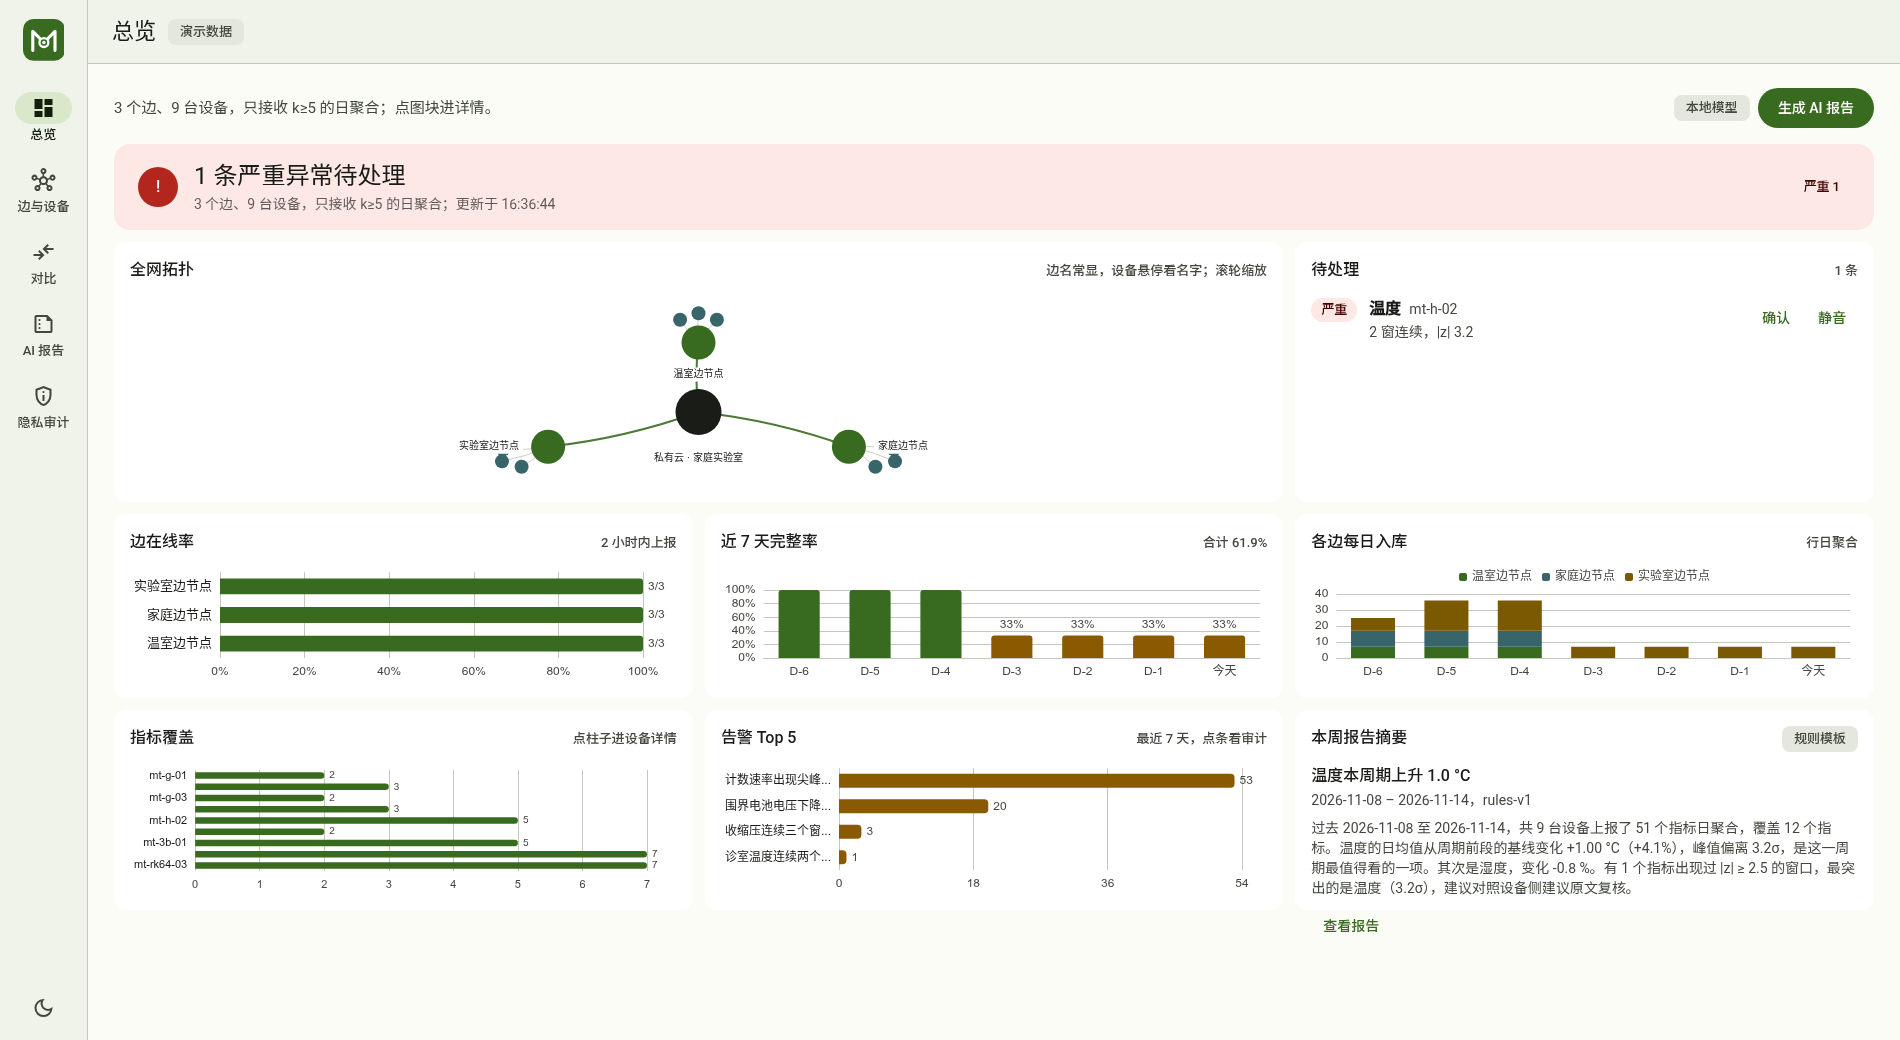
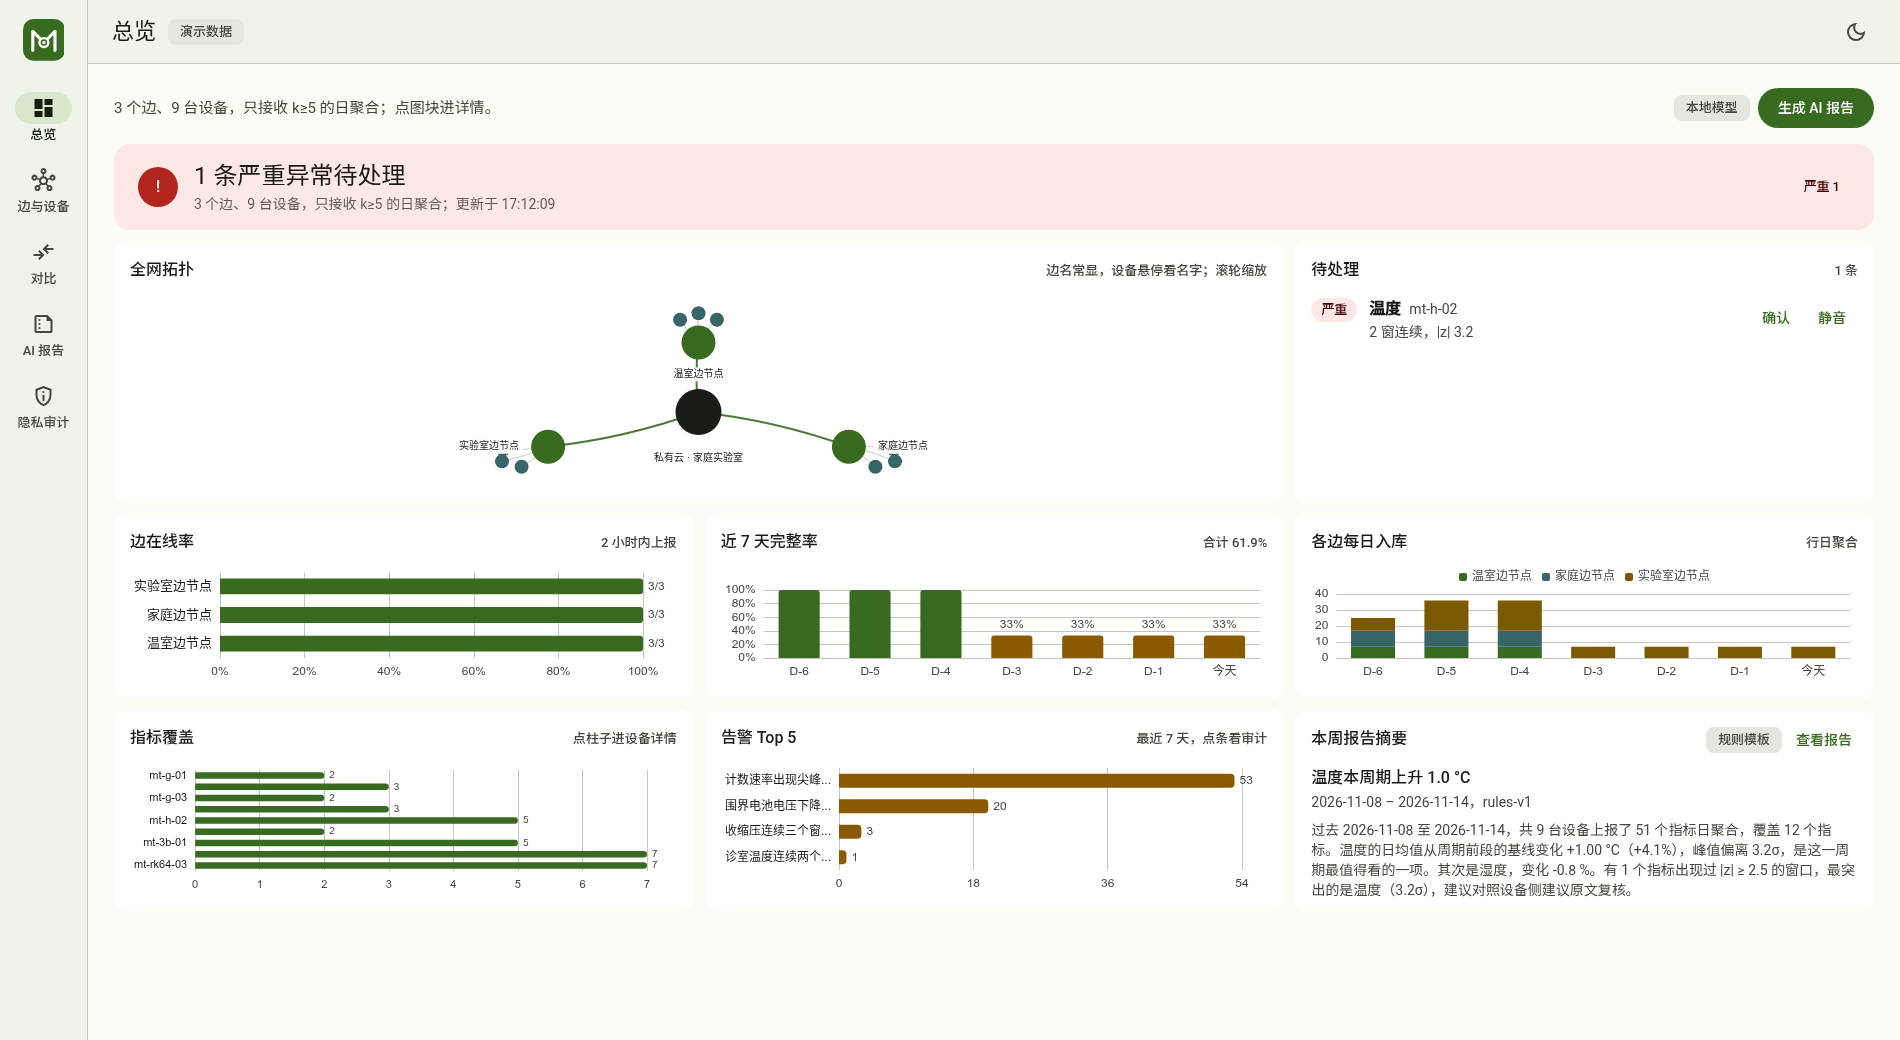
fix(web): 暗色改中性黑底，修 tooltip 尺寸与摘要卡溢出 (#17)
- 暗色面从墨绿 #10130d 换成纯黑 + 中性灰阶：surface #000、卡片 #141414、
  外壳 #0e0e0e、字段 #262626，绿只作为强调色
- 图表 tooltip 被 .chart-fill 的 div{height:100%} 命中，整块拉成全高、
  横跨卡片并盖住相邻卡片。选择器收紧到 ChartBox 根节点，tooltip 自己
  再给 padding/圆角/阴影/confine
- 本周报告摘要正文溢出卡片：查看报告改到卡片标题行，正文 4 行截断
- 设备详情建议列表从卡片内滚动改成自然高度，不再切掉半行
- 主题切换从 rail 底部移到顶栏右侧（.theme-toggle），smoke 断言点了真会换

Changed region(s): [[0.6832, 0.7077, 0.9937, 0.8923], [0.9005, 0.6769, 0.9937, 0.7385]]

diff --git a/web/src/styles/m3.css b/web/src/styles/m3.css
@@ -140,14 +140,32 @@
 
 [data-theme='dark'] {
   color-scheme: dark;
+  /* 中性黑：暗色下不用绿色调的“墨绿底”，面用纯黑到灰阶 */
+  --md-surface: #000000;
+  --md-surface-tint: var(--md-primary);
+  --md-surface-dim: #000000;
+  --md-surface-bright: #2b2b2b;
+  --md-surface-container-lowest: #0a0a0a;
+  --md-surface-container-low: #141414;
+  --md-surface-container: #0e0e0e;
+  --md-surface-container-high: #1e1e1e;
+  --md-surface-container-highest: #262626;
+  --md-surface-variant: #2a2a2a;
+  --md-on-surface: #eaeaea;
+  --md-on-surface-variant: #b8b8b8;
+  --md-outline: #8f8f8f;
+  --md-outline-variant: #3a3a3a;
+  --md-inverse-surface: #eaeaea;
+  --md-inverse-on-surface: #1a1a1a;
+
   --md-primary: #9cd67e;
   --md-on-primary: #0a3900;
   --md-primary-container: #205107;
   --md-on-primary-container: #b7f397;
-  --md-secondary: #bdcbb0;
-  --md-on-secondary: #283421;
-  --md-secondary-container: #3e4b36;
-  --md-on-secondary-container: #d9e7cb;
+  --md-secondary: #c3c8bb;
+  --md-on-secondary: #2a2f27;
+  --md-secondary-container: #343a31;
+  --md-on-secondary-container: #dfe4d7;
   --md-tertiary: #a0cfd4;
   --md-on-tertiary: #00363a;
   --md-tertiary-container: #1f4d51;
@@ -157,31 +175,14 @@
   --md-error-container: #93000a;
   --md-on-error-container: #ffdad6;
 
-  --md-surface: #10130d;
-  --md-on-surface: #e3e4dc;
-  --md-surface-tint: var(--md-primary);
-  --md-surface-dim: #10130d;
-  --md-surface-bright: #373a33;
-  --md-surface-container-lowest: #0b0e08;
-  --md-surface-container-low: #1a1d17;
-  --md-surface-container: #151811;
-  --md-surface-container-high: #23271e;
-  --md-surface-container-highest: #2d3128;
-  --md-surface-variant: #43483e;
-  --md-on-surface-variant: #c3c8bb;
-  --md-outline: #8d9286;
-  --md-outline-variant: #43483e;
-  --md-inverse-surface: #e3e4dc;
-  --md-inverse-on-surface: #2f312c;
-
   --md-ok: #9cd67e;
-  --md-ok-container: #22301a;
+  --md-ok-container: #1d2a16;
   --md-on-ok-container: #c9eeb5;
   --md-notice: #e0b05a;
-  --md-notice-container: #33280f;
+  --md-notice-container: #2c2410;
   --md-on-notice-container: #f6dda9;
   --md-critical: #ffb4ab;
-  --md-critical-container: #3b1b18;
+  --md-critical-container: #351513;
   --md-on-critical-container: #ffdad6;
 
   --md-chart-1: #9cd67e;
@@ -193,7 +194,7 @@
   --md-chart-cool: var(--md-tertiary);
   --md-chart-warm: var(--md-notice);
 
-  --md-elev-1: 0 1px 2px rgba(0, 0, 0, 0.3), 0 1px 3px 1px rgba(0, 0, 0, 0.15);
+  --md-elev-1: 0 1px 2px rgba(0, 0, 0, 0.6), 0 1px 3px 1px rgba(0, 0, 0, 0.4);
 }
 
 /* ---------------------------------------------------------------- 基础 */

diff --git a/web/src/views/Overview.vue b/web/src/views/Overview.vue
@@ -322,13 +322,15 @@ function drillCover(p) {
     <section class="md-card span-4 card-low">
       <div class="md-card-head">
         <h2>本周报告摘要</h2>
-        <span class="md-chip">{{ latest?.content?.confidence === 'high' ? '高置信' : '规则模板' }}</span>
+        <span class="head-right">
+          <span class="md-chip">{{ latest?.content?.confidence === 'high' ? '高置信' : '规则模板' }}</span>
+          <RouterLink class="md-btn md-btn--text" to="/reports">查看报告</RouterLink>
+        </span>
       </div>
       <article v-if="latest" class="brief">
         <h3>{{ latest.content.headline }}</h3>
         <p class="md-muted small">{{ latest.period_start }} – {{ latest.period_end }}，{{ latest.model }}</p>
         <p class="narrative">{{ latest.content.narrative }}</p>
-        <RouterLink class="md-btn md-btn--text" to="/reports">查看报告</RouterLink>
       </article>
       <p v-else class="md-muted">还没有报告。</p>
     </section>
@@ -362,17 +364,19 @@ function drillCover(p) {
   flex: 1;
   min-height: 0;
 }
-.chart-fill :deep(div) {
+.chart-fill > :deep(div) {
   height: 100%;
 }
 
 .brief h3 { font: var(--md-title-medium); margin-bottom: 2px; }
+.head-right { display: inline-flex; align-items: center; gap: var(--space-2); }
+.head-right .md-btn { height: 28px; padding: 0 6px; }
 .narrative {
   font: var(--md-body-small);
   color: var(--md-on-surface-variant);
   margin: var(--space-2) 0;
   display: -webkit-box;
-  -webkit-line-clamp: 7;
+  -webkit-line-clamp: 4;
   -webkit-box-orient: vertical;
   overflow: hidden;
 }

diff --git a/web/src/App.vue b/web/src/App.vue
@@ -45,16 +45,6 @@ onMounted(async () => {
         <span>{{ item.label }}</span>
       </RouterLink>
 
-      <span class="rail-spacer"></span>
-
-      <button
-        class="md-btn md-btn--icon"
-        :aria-label="theme === 'dark' ? '切到亮色' : '切到暗色'"
-        :title="theme === 'dark' ? '切到亮色' : '切到暗色'"
-        @click="toggleTheme"
-      >
-        <Icon :name="theme === 'dark' ? 'light_mode' : 'dark_mode'" />
-      </button>
     </nav>
 
     <div class="main">
@@ -63,6 +53,14 @@ onMounted(async () => {
         <span v-if="demo" class="md-chip" role="status">演示数据</span>
         <div class="appbar-actions">
           <slot name="appbar"></slot>
+          <button
+            class="md-btn md-btn--icon theme-toggle"
+            :aria-label="theme === 'dark' ? '切到亮色' : '切到暗色'"
+            :title="theme === 'dark' ? '切到亮色' : '切到暗色'"
+            @click="toggleTheme"
+          >
+            <Icon :name="theme === 'dark' ? 'light_mode' : 'dark_mode'" />
+          </button>
         </div>
       </header>
 

diff --git a/web/src/components/ChartBox.vue b/web/src/components/ChartBox.vue
@@ -24,10 +24,13 @@ function apply() {
     ? {
         ...base,
         tooltip: {
-          backgroundColor: token('--md-surface-container-high', '#282b25'),
-          borderColor: token('--md-outline-variant', '#43483e'),
+          backgroundColor: token('--md-surface-container-high', '#1e1e1e'),
+          borderColor: token('--md-outline-variant', '#3a3a3a'),
           borderWidth: 1,
-          textStyle: { fontSize: 13, color: token('--md-on-surface', '#e3e3dc') },
+          padding: [8, 12],
+          confine: true,
+          textStyle: { fontSize: 12, color: token('--md-on-surface', '#eaeaea'), lineHeight: 20 },
+          extraCssText: 'border-radius: 10px; box-shadow: 0 6px 16px rgba(0, 0, 0, 0.18);',
           ...base.tooltip,
         },
       }

diff --git a/web/src/lib/theme.js b/web/src/lib/theme.js
@@ -70,6 +70,8 @@ export function chartTokens(mode) {
       i <= 3 ? mix(cool, surface, i / 3) : mix(surface, warm, (i - 3) / 3),
     ),
     border: surface,
+    // 次要序列（“前 24 小时”这类对比柱）：暗色下 outline-variant 太黑，按面与字混一点
+    muted: mix(surface, read('--md-on-surface') || '#1a1c18', theme.value === 'dark' ? 0.3 : 0.16),
     palette: [1, 2, 3, 4, 5, 6].map((i) => read(`--md-chart-${i}`) || line),
     word: { sat: [38, 56], light: theme.value === 'dark' ? [62, 80] : [24, 36] },
   }

diff --git a/web/src/views/DeviceDetail.vue b/web/src/views/DeviceDetail.vue
@@ -199,6 +199,6 @@ const wordOption = computed(() => {
 .card-low { height: 300px; }
 .card-advice { min-height: 300px; }
 .chart-fill { flex: 1; min-height: 0; }
-.chart-fill :deep(div) { height: 100%; }
+.chart-fill > :deep(div) { height: 100%; }
 .small { font: var(--md-body-small); }
 </style>
